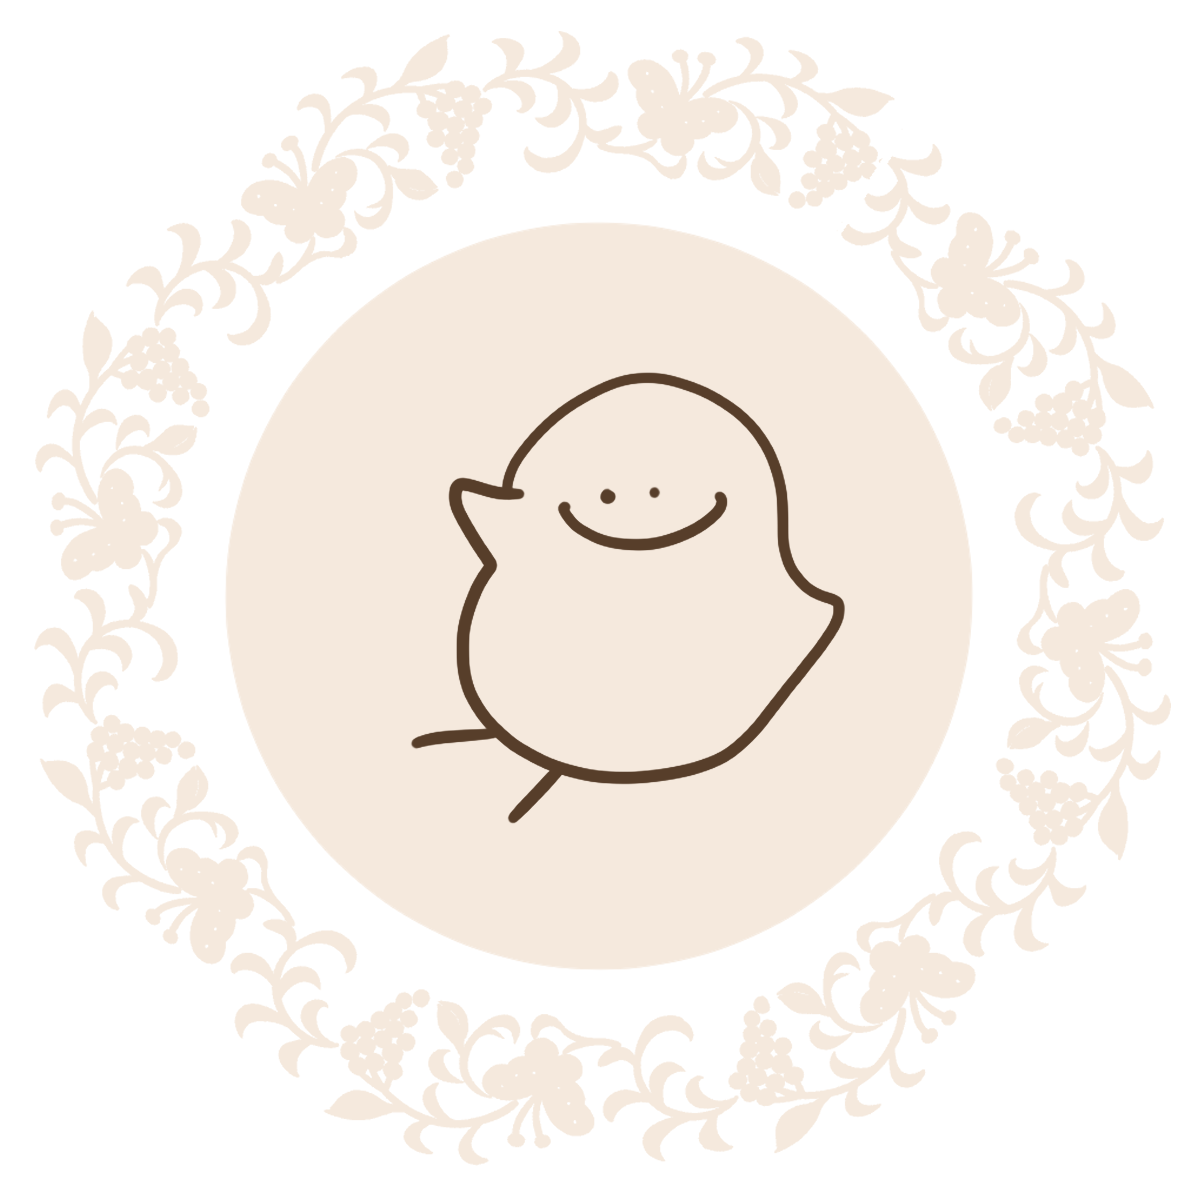
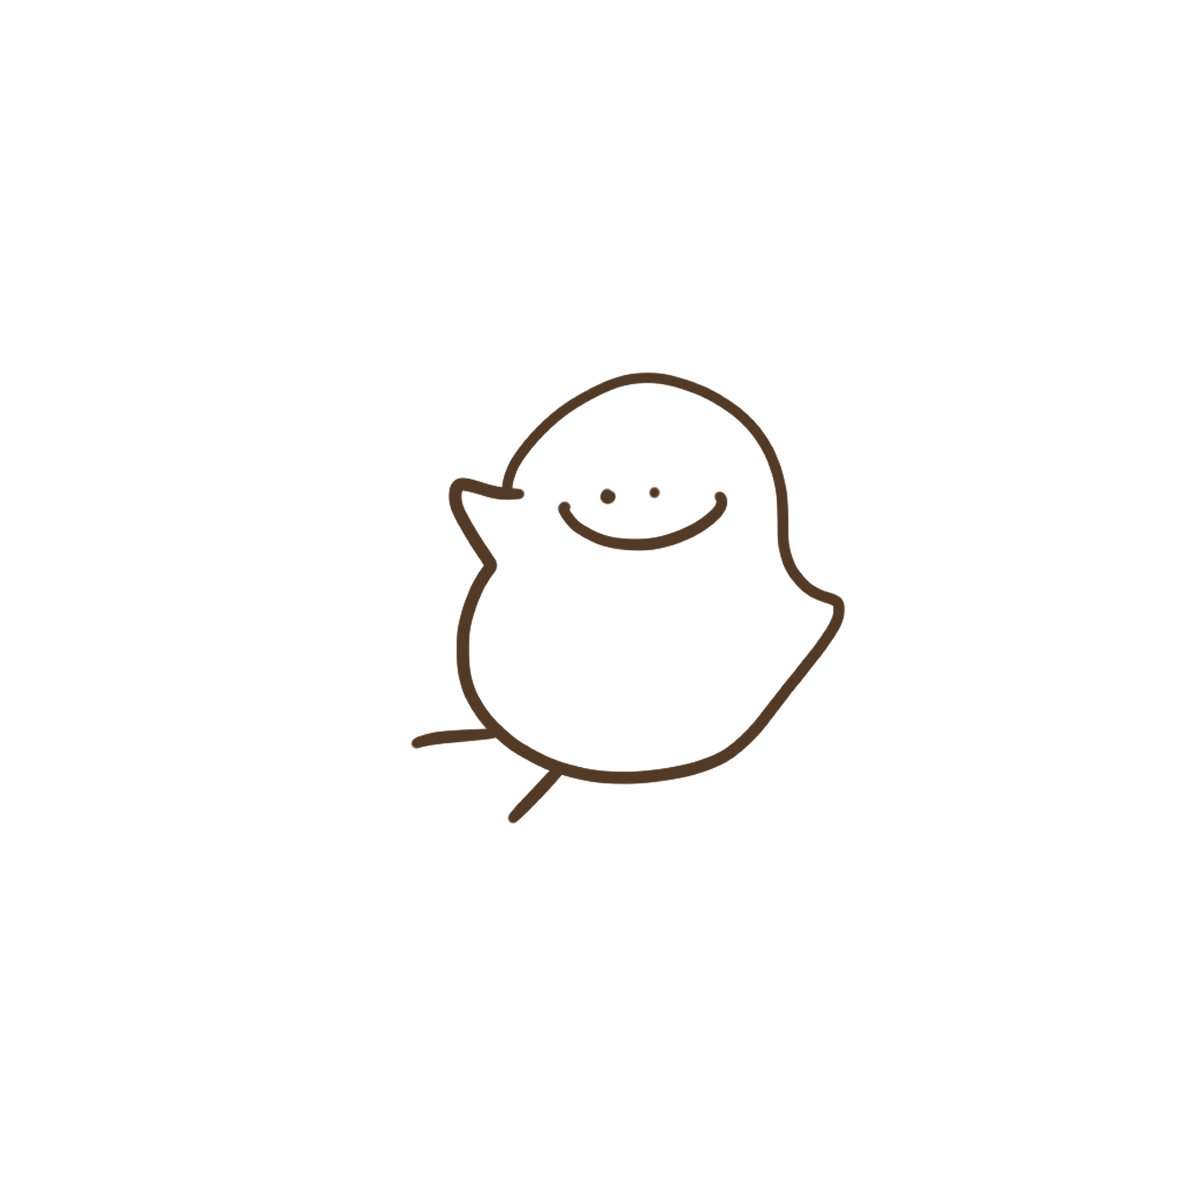
added images

diff --git a/about.html b/about.html
@@ -48,7 +48,7 @@
 </div>
 
 <div id="experience">
-    <img class="icon" src="img/ailatte.png" />
+    <img class="icon" src="img/abtme.png" />
     <h1>projects</h1>
 
     <div class="row gy-3" style="margin-top: 25px;">
